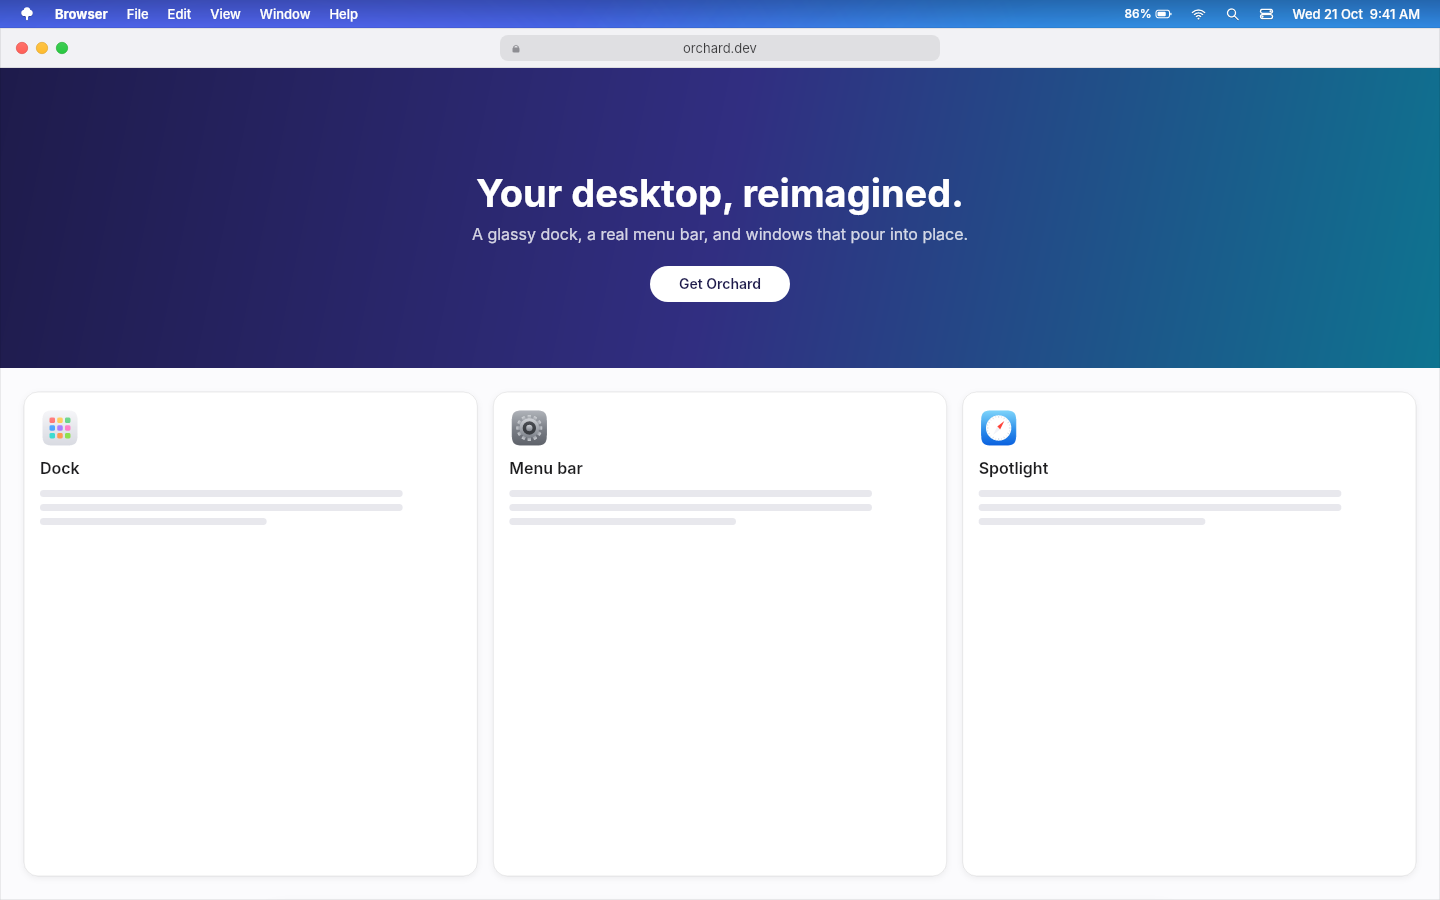
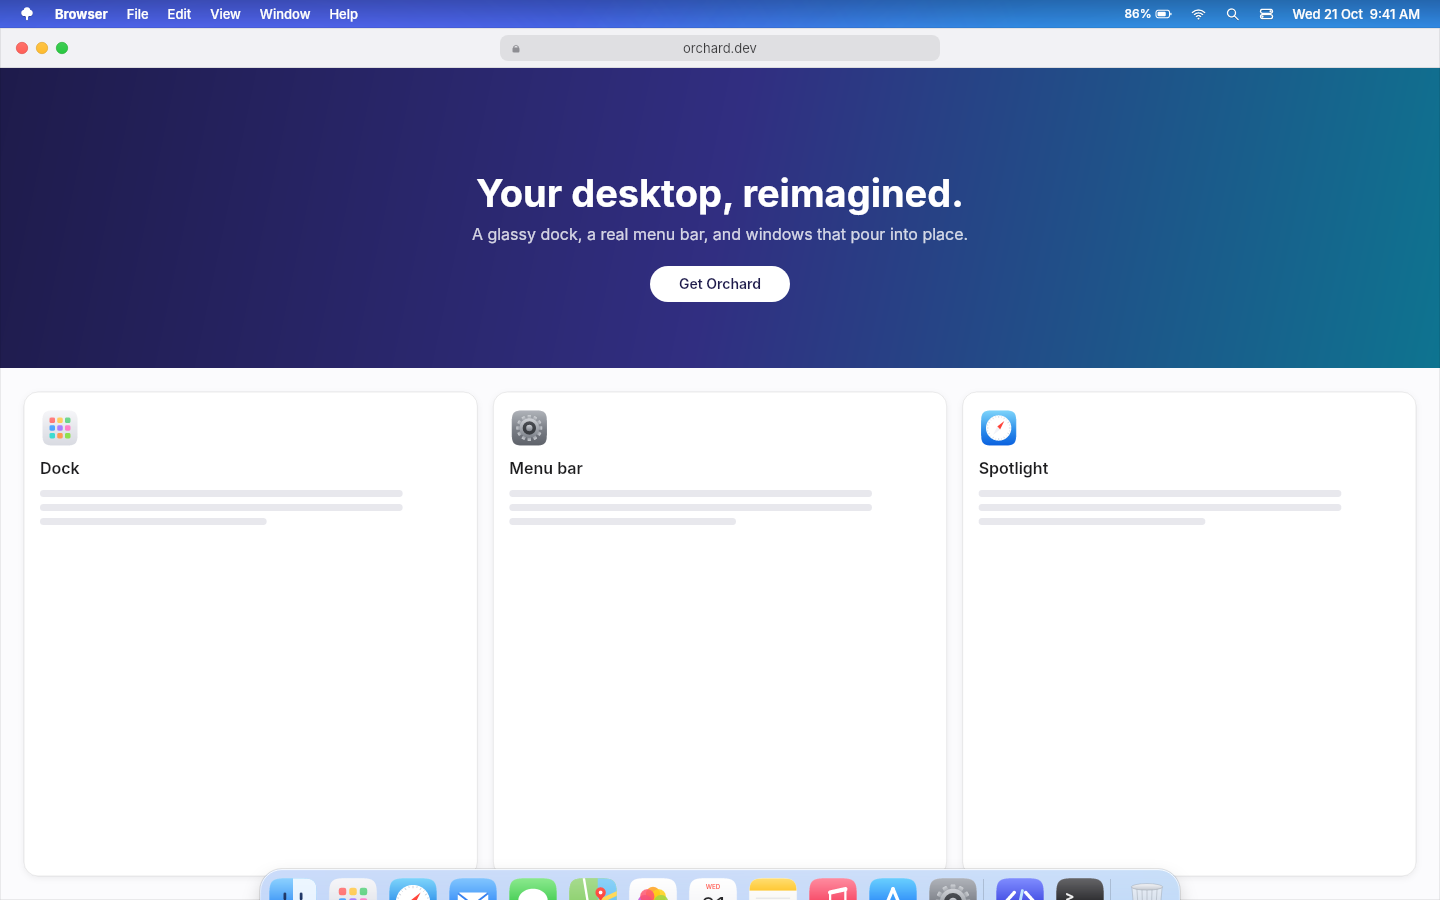
Fix dock/widget blur boxes and window placement on real Windows
On a real PC the compositor blur ignored the window region, frosting the
whole dock and widget window rectangles, and both windows ended up ~30 px
lower than placed (dock cut off at the screen edge).

- Dock window now hugs the shelf and only expands while hovered; it is
  hidden outright once slid away, so it never covers the bottom strip.
- No compositor blur for dock and widgets; Palette.Solid paints a denser
  frosted tint instead. Popovers keep blur, with Windows 11 rounding.
- ShellWindow.EnsurePlacement puts a window's client area exactly where
  intended via Win32 and is re-checked every second.
- Scale uses the window's real render scale once shown.

Claude-Session: https://claude.ai/code/session_0183A4US3oh7osa1efwF164h

Changed region(s): [[0.1562, 0.9644, 0.8438, 1.0]]

diff --git a/src/Orchard/Shell/ShellHost.cs b/src/Orchard/Shell/ShellHost.cs
@@ -40,6 +40,9 @@ public sealed class ShellHost : IShellCommands, IDisposable
     private readonly WidgetBoard? _widgets;
     private readonly WeatherService _weather;
     private int _appearancePoll;
+    private PixelRect _dockRect, _widgetsRect;
+    private bool _dockExpanded;
+    private int _placementPoll;
 
     private ShellWindow? _popup;
     private bool _popupIsDockMenu;
@@ -60,6 +63,7 @@ public sealed class ShellHost : IShellCommands, IDisposable
         _settings = settings;
         _platform = platform;
         _monitor = platform.PrimaryMonitor;
+        Palette.Solid = true;
         Palette.Dark = settings.Appearance switch { Appearance.Dark => true, Appearance.Light => false, _ => platform.DarkMode };
         MenuCatalog.WindowTitle = Native.GetText;
 
@@ -91,13 +95,15 @@ public sealed class ShellHost : IShellCommands, IDisposable
         // ---- dock ----
         _dock = new DockControl { IconSize = settings.IconSize, MaxScale = settings.MagnifiedScale, Magnify = settings.Magnification };
         _dockWindow = new ShellWindow(activatable: false) { Content = _dock, Title = "Orchard Dock" };
-        int dockHeight = (int)Math.Ceiling(_dock.RequiredHeight * _dockWindow.Scale);
-        _dockWindow.PlaceAt(new PixelRect(_monitor.X, _monitor.Bottom - dockHeight, _monitor.Width, dockHeight));
         _dock.Items = platform.DockApps;
+        // The dock window hugs the shelf and only grows (upwards and sideways) while you hover it, so it never
+        // blocks clicks on the strip of screen around it. See UpdateDockWindow.
+        _dockRect = DockRect(expanded: false);
+        _dockWindow.PlaceAt(_dockRect);
         _dock.ItemClicked += OnDockClick;
         _dock.ItemContextRequested += OnDockContext;
         _dock.ShapeChanged += shapes => Dispatcher.UIThread.Post(() => _dockWindow.SetShape(shapes));
-        _dockWindow.Opened += (_, _) => { _dockWindow.SetShape([]); _dockWindow.EnableBlur(); };
+        _dockWindow.Opened += (_, _) => _dockWindow.EnsurePlacement(_dockRect);
         platform.DockAppsChanged += () => _dock.Items = platform.DockApps.ToList();
 
         // ---- traffic lights (follow the foreground window) ----
@@ -114,9 +120,11 @@ public sealed class ShellHost : IShellCommands, IDisposable
             var widgets = _widgets = new WidgetBoard(platform, _weather) { Kinds = settings.Widgets };
             var window = _widgetsWindow = new ShellWindow(activatable: false, topmost: false) { Content = widgets, Title = "Orchard Widgets" };
             double ws = window.Scale;
-            window.PlaceAt(new PixelRect(_monitor.X + (int)(24 * ws), _monitor.Y + (int)((MenuBarView.BarHeight + 18) * ws),
-                (int)Math.Ceiling(WidgetBoard.BoardWidth * ws) + 2, (int)Math.Ceiling(widgets.Height * ws) + 2));
-            window.Opened += (_, _) => { window.SetShape(widgets.TileShapes); window.EnableBlur(); SendWidgetsToBottom(); };
+            _widgetsRect = new PixelRect(_monitor.X + (int)(24 * ws), _monitor.Y + (int)((MenuBarView.BarHeight + 18) * ws),
+                (int)Math.Ceiling(WidgetBoard.BoardWidth * ws) + 2, (int)Math.Ceiling(widgets.Height * ws) + 2);
+            window.PlaceAt(_widgetsRect);
+            // No compositor blur here: on some PCs it ignores the window's shape and frosts the whole rectangle.
+            window.Opened += (_, _) => { window.EnsurePlacement(_widgetsRect); window.SetShape(widgets.TileShapes); SendWidgetsToBottom(); };
             widgets.ShapeChanged += shapes => Dispatcher.UIThread.Post(() => window.SetShape(shapes));
             widgets.WidgetMenuRequested += (kind, rect) =>
             {
@@ -151,6 +159,37 @@ public sealed class ShellHost : IShellCommands, IDisposable
     }
 
     private static Native.RECT ToRect(PixelRect r) => new(r.X, r.Y, r.Right, r.Bottom);
+
+    /// <summary>
+    /// The dock window's rectangle in pixels, centred at the bottom of the monitor. At rest it is exactly the shelf;
+    /// expanded, it adds headroom for magnified icons and the hover label.
+    /// </summary>
+    private PixelRect DockRect(bool expanded)
+    {
+        double s = _dockWindow.Scale;
+        double w = _dock.RestingShelfWidth + (expanded ? 2 * _dock.IconSize * _dock.MaxScale : 0);
+        double h = expanded ? _dock.RequiredHeight : _dock.ShelfHeightAtRest + DockControl.BottomMargin;
+        int pw = Math.Min(_monitor.Width, (int)Math.Ceiling(w * s)), ph = (int)Math.Ceiling(h * s);
+        return new PixelRect(_monitor.X + (_monitor.Width - pw) / 2, _monitor.Bottom - ph, pw, ph);
+    }
+
+    private void UpdateDockWindow(PixelRect rest, PixelPoint pointer)
+    {
+        // Fully slid away: hide the window outright so nothing at the bottom edge is blocked.
+        if (_dock.HiddenTarget == 1 && _dock.Hidden > 0.98)
+        {
+            if (_dockWindow.IsVisible) _dockWindow.Hide();
+            return;
+        }
+        var expandedRect = DockRect(expanded: true);
+        bool expand = _dock.Hidden < 0.5 &&
+                      (rest.Contains(pointer) || (_dockExpanded && expandedRect.Contains(pointer)) || _dock.IsMagnified || _popupIsDockMenu);
+        var want = expand ? expandedRect : rest;
+        if (want == _dockRect) return;
+        _dockRect = want;
+        _dockExpanded = expand;
+        _dockWindow.EnsurePlacement(want);
+    }
 
     /// <summary>Widgets live on the desktop layer: keep them beneath every app window.</summary>
     private void SendWidgetsToBottom()
@@ -206,17 +245,28 @@ public sealed class ShellHost : IShellCommands, IDisposable
         double s = _dockWindow.Scale;
 
         // Dock: the area it occupies when shown, so "does a window overlap it" is stable while it is hidden.
-        double restingHeight = (_dock.IconSize + DockControl.Padding * 2 + DockControl.BottomMargin) * s;
-        var shelf = _dock.ShelfRect;
-        var dockArea = new Rect(_monitor.X + shelf.X * s, _monitor.Bottom - restingHeight, shelf.Width * s, restingHeight);
+        var rest = DockRect(expanded: false);
+        var dockArea = new Rect(rest.X, rest.Y, rest.Width, rest.Height);
         bool launchpadOpen = _popup?.Content is LaunchpadView;
         bool dockWantsHide = !launchpadOpen && VisibilityRules.DockWantsHide(_settings.Dock, fg, dockArea);
-        _dockReveal.Update(now, dockWantsHide, onMonitor && pointer.Y >= _monitor.Bottom - 2, _dock.IsEngaged || _popupIsDockMenu);
+        _dockReveal.Update(now, dockWantsHide, onMonitor && pointer.Y >= _monitor.Bottom - 2,
+            _dock.IsEngaged || _popupIsDockMenu || rest.Contains(pointer));
         double dockTarget = _dockReveal.Visible ? 0 : 1;
         if (_dock.HiddenTarget != dockTarget)
         {
             _dock.HiddenTarget = dockTarget;
+            if (dockTarget == 0 && !_dockWindow.IsVisible) _dockWindow.Show();
             _dock.Items = _dock.Items; // restart the animation loop
+        }
+        UpdateDockWindow(rest, pointer);
+
+        // Windows sometimes nudges borderless windows (e.g. when the menu bar's app-bar changes the work area).
+        if (++_placementPoll % 30 == 0)
+        {
+            _dockWindow.EnsurePlacement(_dockRect);
+            _widgetsWindow?.EnsurePlacement(_widgetsRect);
+            if (_menuOffset == 0 && _menuReveal.Visible)
+                _menuWindow.EnsurePlacement(new PixelRect(_monitor.X, _monitor.Y, _monitor.Width, (int)Math.Ceiling(MenuBarView.BarHeight * _menuWindow.Scale)));
         }
 
         // Menu bar: slides up out of the way in fullscreen, drops back when the pointer touches the top edge.
@@ -390,7 +440,7 @@ public sealed class ShellHost : IShellCommands, IDisposable
         window.Deactivated += (_, _) => { if (_popup == window) ClosePopup(); };
         window.Opened += (_, _) =>
         {
-            window.EnableBlur();
+            window.EnableBlur(roundCorners: true);
             window.Activate();
             if (content is SpotlightView sv) sv.FocusInput();
             else if (content is LaunchpadView lv) lv.FocusSearch();

diff --git a/src/Orchard/Shell/ShellWindow.cs b/src/Orchard/Shell/ShellWindow.cs
@@ -36,8 +36,25 @@ public class ShellWindow : Window
 
     public nint Handle => TryGetPlatformHandle()?.Handle ?? 0;
 
-    /// <summary>DPI scale of the screen this window is (or will be) on.</summary>
-    public double Scale => Screens.ScreenFromPoint(Position)?.Scaling ?? Screens.Primary?.Scaling ?? 1;
+    /// <summary>DPI scale of the screen this window is (or will be) on. Once shown, the window's real render scale wins.</summary>
+    public double Scale => IsVisible && RenderScaling > 0 ? RenderScaling : Screens.ScreenFromPoint(Position)?.Scaling ?? Screens.Primary?.Scaling ?? 1;
+
+    /// <summary>
+    /// Makes the window's client area occupy exactly <paramref name="desired"/> (physical pixels), using Win32 directly.
+    /// Windows (and the app-bar work-area change) can nudge a borderless window after it is shown; this puts it back.
+    /// Cheap to call repeatedly — it only moves the window when something is off.
+    /// </summary>
+    public void EnsurePlacement(PixelRect desired)
+    {
+        if (!OperatingSystem.IsWindows() || Handle == 0) return;
+        var origin = new Native.POINT();
+        if (!Native.ClientToScreen(Handle, ref origin) || !Native.GetClientRect(Handle, out var client) || !Native.GetWindowRect(Handle, out var outer)) return;
+        int dx = desired.X - origin.X, dy = desired.Y - origin.Y;
+        int dw = desired.Width - client.Width, dh = desired.Height - client.Height;
+        if (dx == 0 && dy == 0 && dw == 0 && dh == 0) return;
+        Native.SetWindowPos(Handle, 0, outer.Left + dx, outer.Top + dy, outer.Width + dw, outer.Height + dh,
+            Native.SWP_NOZORDER | Native.SWP_NOACTIVATE);
+    }
 
     /// <summary>Positions the window in physical pixels.</summary>
     public void PlaceAt(PixelRect r)
@@ -76,7 +93,7 @@ public class ShellWindow : Window
     }
 
     /// <summary>Compositor blur behind the window (Windows 10 and 11). The glass tint is painted by the controls.</summary>
-    public void EnableBlur()
+    public void EnableBlur(bool roundCorners = false)
     {
         if (!OperatingSystem.IsWindows() || Handle == 0) return;
         var accent = new Native.ACCENT_POLICY { AccentState = 3 /* ACCENT_ENABLE_BLURBEHIND */ };
@@ -92,8 +109,8 @@ public class ShellWindow : Window
         {
             Marshal.FreeHGlobal(ptr);
         }
-        // Windows 11 would otherwise round and shadow the rectangular window behind our own shapes.
-        int pref = Native.DWMWCP_DONOTROUND;
+        // Windows 11 rounding: on for popovers (matches their own corners), off for everything else.
+        int pref = roundCorners ? Native.DWMWCP_ROUND : Native.DWMWCP_DONOTROUND;
         Native.DwmSetWindowAttribute(Handle, Native.DWMWA_WINDOW_CORNER_PREFERENCE, ref pref, sizeof(int));
     }
 

diff --git a/src/Orchard/Theme/Palette.cs b/src/Orchard/Theme/Palette.cs
@@ -30,8 +30,20 @@ public static class Palette
     public static readonly FontFamily Font = new("avares://Orchard/Assets/Fonts#Inter, Segoe UI Variable Text, Segoe UI");
 
     // Glass: a translucent tint laid over the OS blur (or over the pre-blurred wallpaper in preview).
-    public static Color GlassTint => Dark ? Color.FromArgb(0xC8, 0x0C, 0x0C, 0x0E) : Color.FromArgb(0x5C, 0xFF, 0xFF, 0xFF);
-    public static Color GlassTintStrong => Dark ? Color.FromArgb(0xE8, 0x16, 0x16, 0x18) : Color.FromArgb(0xC4, 0xF6, 0xF6, 0xF8);
+    /// <summary>
+    /// True when surfaces may have nothing blurred behind them (the real Windows shell): glass is then painted
+    /// more opaque so it still reads as frosted rather than as a faint film over the wallpaper.
+    /// </summary>
+    public static bool Solid { get; set; }
+
+    public static Color GlassTint => (Dark, Solid) switch
+    {
+        (true, false) => Color.FromArgb(0xC8, 0x0C, 0x0C, 0x0E),
+        (true, true) => Color.FromArgb(0xE6, 0x16, 0x16, 0x19),
+        (false, false) => Color.FromArgb(0x5C, 0xFF, 0xFF, 0xFF),
+        (false, true) => Color.FromArgb(0xD6, 0xF4, 0xF4, 0xF7),
+    };
+    public static Color GlassTintStrong => Dark ? Color.FromArgb(Solid ? (byte)0xF2 : (byte)0xE8, 0x16, 0x16, 0x18) : Color.FromArgb(Solid ? (byte)0xEE : (byte)0xC4, 0xF6, 0xF6, 0xF8);
     public static Color GlassRimTop => Dark ? Color.FromArgb(0x48, 0xFF, 0xFF, 0xFF) : Color.FromArgb(0xE6, 0xFF, 0xFF, 0xFF);
     public static Color GlassRimBottom => Dark ? Color.FromArgb(0x12, 0xFF, 0xFF, 0xFF) : Color.FromArgb(0x50, 0xFF, 0xFF, 0xFF);
     public static Color GlassOutline => Dark ? Color.FromArgb(0x99, 0x00, 0x00, 0x00) : Color.FromArgb(0x26, 0x00, 0x00, 0x00);

diff --git a/src/Orchard/Platform/Windows/Native.cs b/src/Orchard/Platform/Windows/Native.cs
@@ -198,6 +198,8 @@ internal static class Native
     [DllImport("user32.dll")] public static extern bool ShowWindowAsync(nint hWnd, int cmd);
     [DllImport("user32.dll")] public static extern bool PostMessageW(nint hWnd, uint msg, nint wParam, nint lParam);
     [DllImport("user32.dll")] public static extern bool GetWindowRect(nint hWnd, out RECT rect);
+    [DllImport("user32.dll")] public static extern bool GetClientRect(nint hWnd, out RECT rect);
+    [DllImport("user32.dll")] public static extern bool ClientToScreen(nint hWnd, ref POINT point);
     [DllImport("user32.dll")] public static extern nint GetWindow(nint hWnd, uint cmd);
     [DllImport("user32.dll")] public static extern nint GetAncestor(nint hWnd, uint flags);
     [DllImport("user32.dll")] public static extern nint GetShellWindow();

diff --git a/src/Orchard/Controls/DockControl.cs b/src/Orchard/Controls/DockControl.cs
@@ -136,6 +136,13 @@ public sealed class DockControl : Control
 
     public Rect ShelfRect => ComputeLayout().Shelf;
 
+    /// <summary>Width of the shelf with no magnification — the dock's footprint at rest.</summary>
+    public double RestingShelfWidth => RestingRow().Width + Padding * 2;
+    public double ShelfHeightAtRest => ShelfHeight;
+
+    /// <summary>True while any icon is still scaled up (including while the wave settles after the pointer leaves).</summary>
+    public bool IsMagnified => _scale.Any(s => s > 1.001);
+
     /// <summary>Height the control needs: the tallest magnified icon plus room for the hover label.</summary>
     public double RequiredHeight => BottomMargin + Padding + IconSize * Math.Max(1, MaxScale) + IconSize * 0.55 + 44;
 

diff --git a/README.md b/README.md
@@ -95,9 +95,12 @@ src/Orchard
 
 * **Built with** C# / .NET 8 and [Avalonia](https://avaloniaui.net/) using Skia GPU rendering. Shell surfaces are
   custom drawn, so each frame of the dock's magnification wave is one cheap render pass.
-* **Click-through and blur:** every shell window is clipped to the shapes it actually paints (`SetWindowRgn`). Outside
-  the shelf and the magnified icons, clicks go to the window underneath, and the compositor blur (`ACCENT_ENABLE_BLURBEHIND`)
-  covers exactly the glass.
+* **Staying out of the way:** the dock window is exactly the size of the shelf, and only grows to make room for
+  magnified icons while you hover it. When it slides away it is hidden entirely, so it never blocks clicks at the
+  bottom of the screen. Window positions are re-checked every second, because Windows can nudge borderless windows
+  when the menu bar reserves its strip.
+* **Glass:** popovers get compositor blur (`ACCENT_ENABLE_BLURBEHIND`). The dock and widgets use a denser frosted
+  tint instead, because on some PCs the compositor blurs the whole window rectangle rather than the rounded shapes.
 * **Window tracking** uses `SetWinEventHook` (foreground, move/resize, create/destroy, cloak), applies Alt+Tab's
   filtering rules, and unwraps UWP windows from `ApplicationFrameHost`.
 * **Genie:** the window is captured with `PrintWindow(PW_RENDERFULLCONTENT)` and Windows' own minimize animation is
